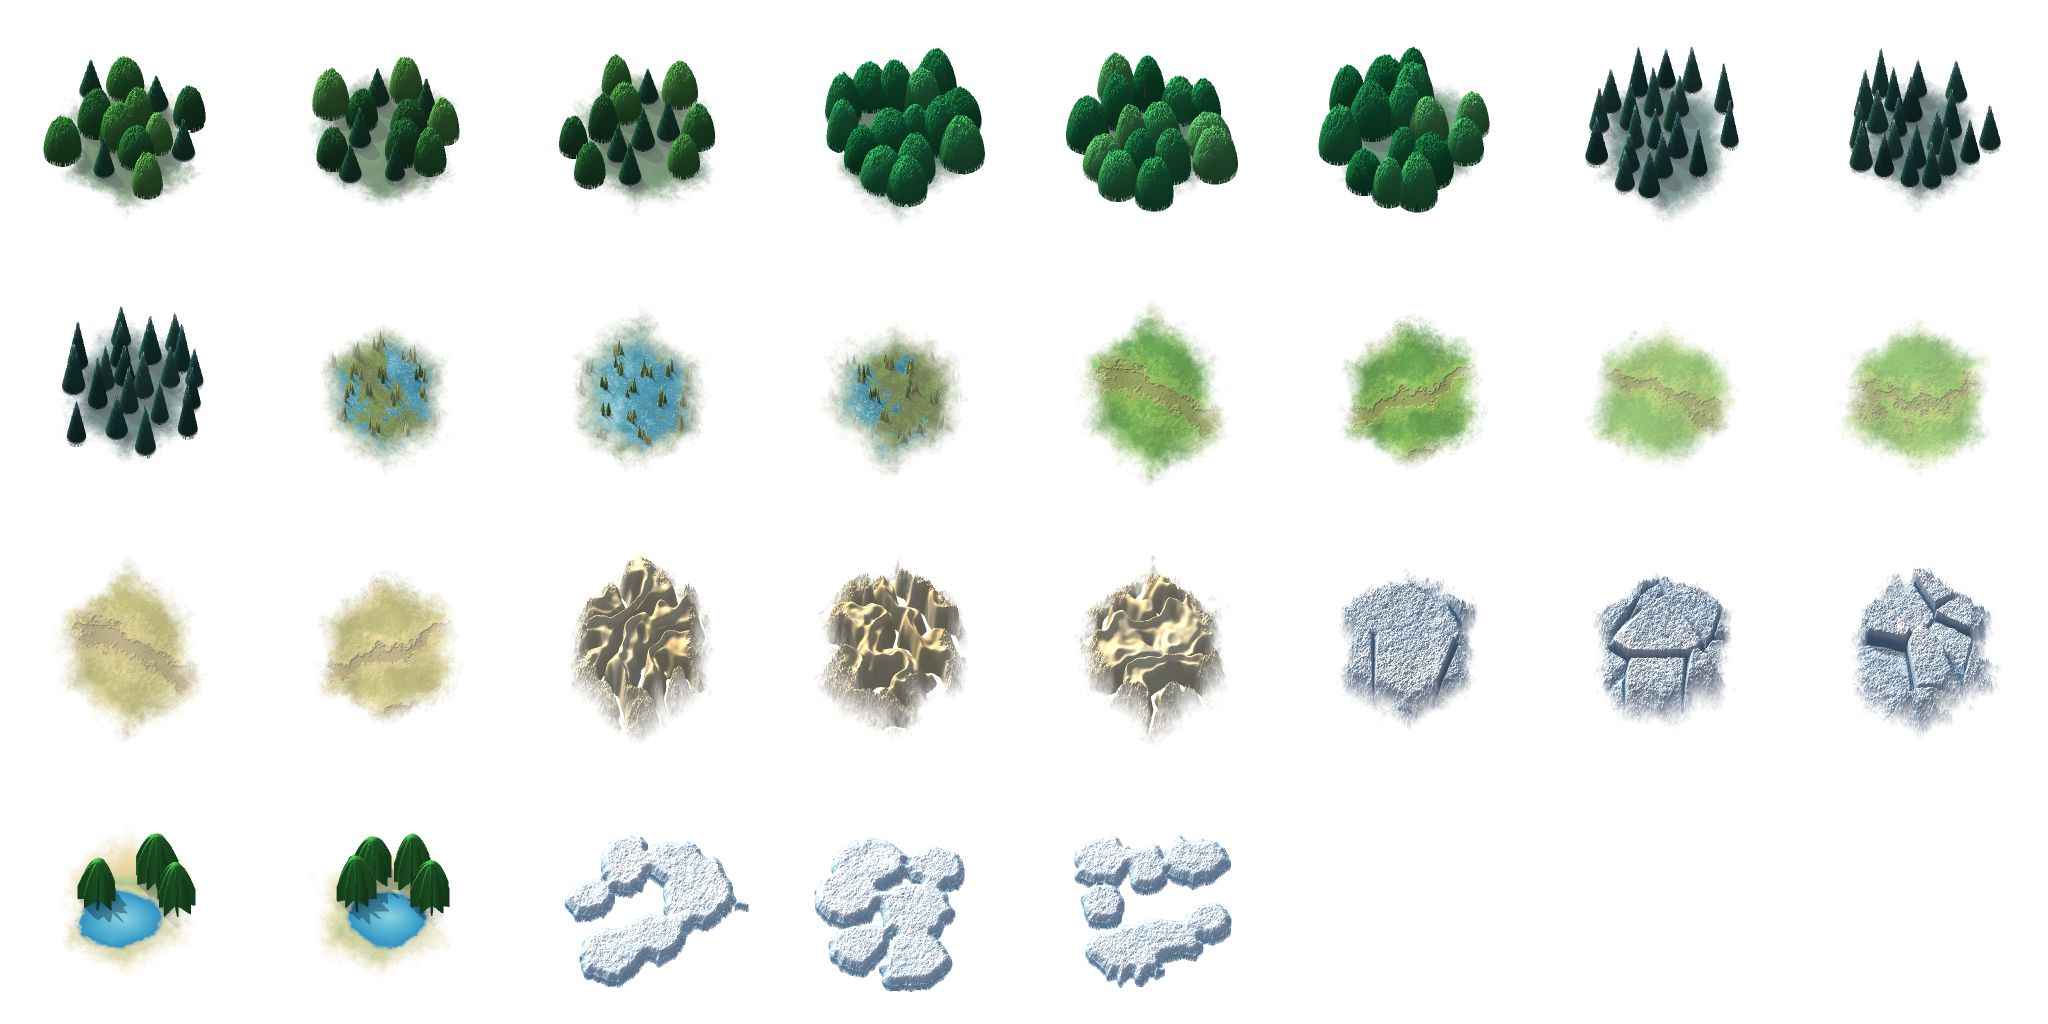
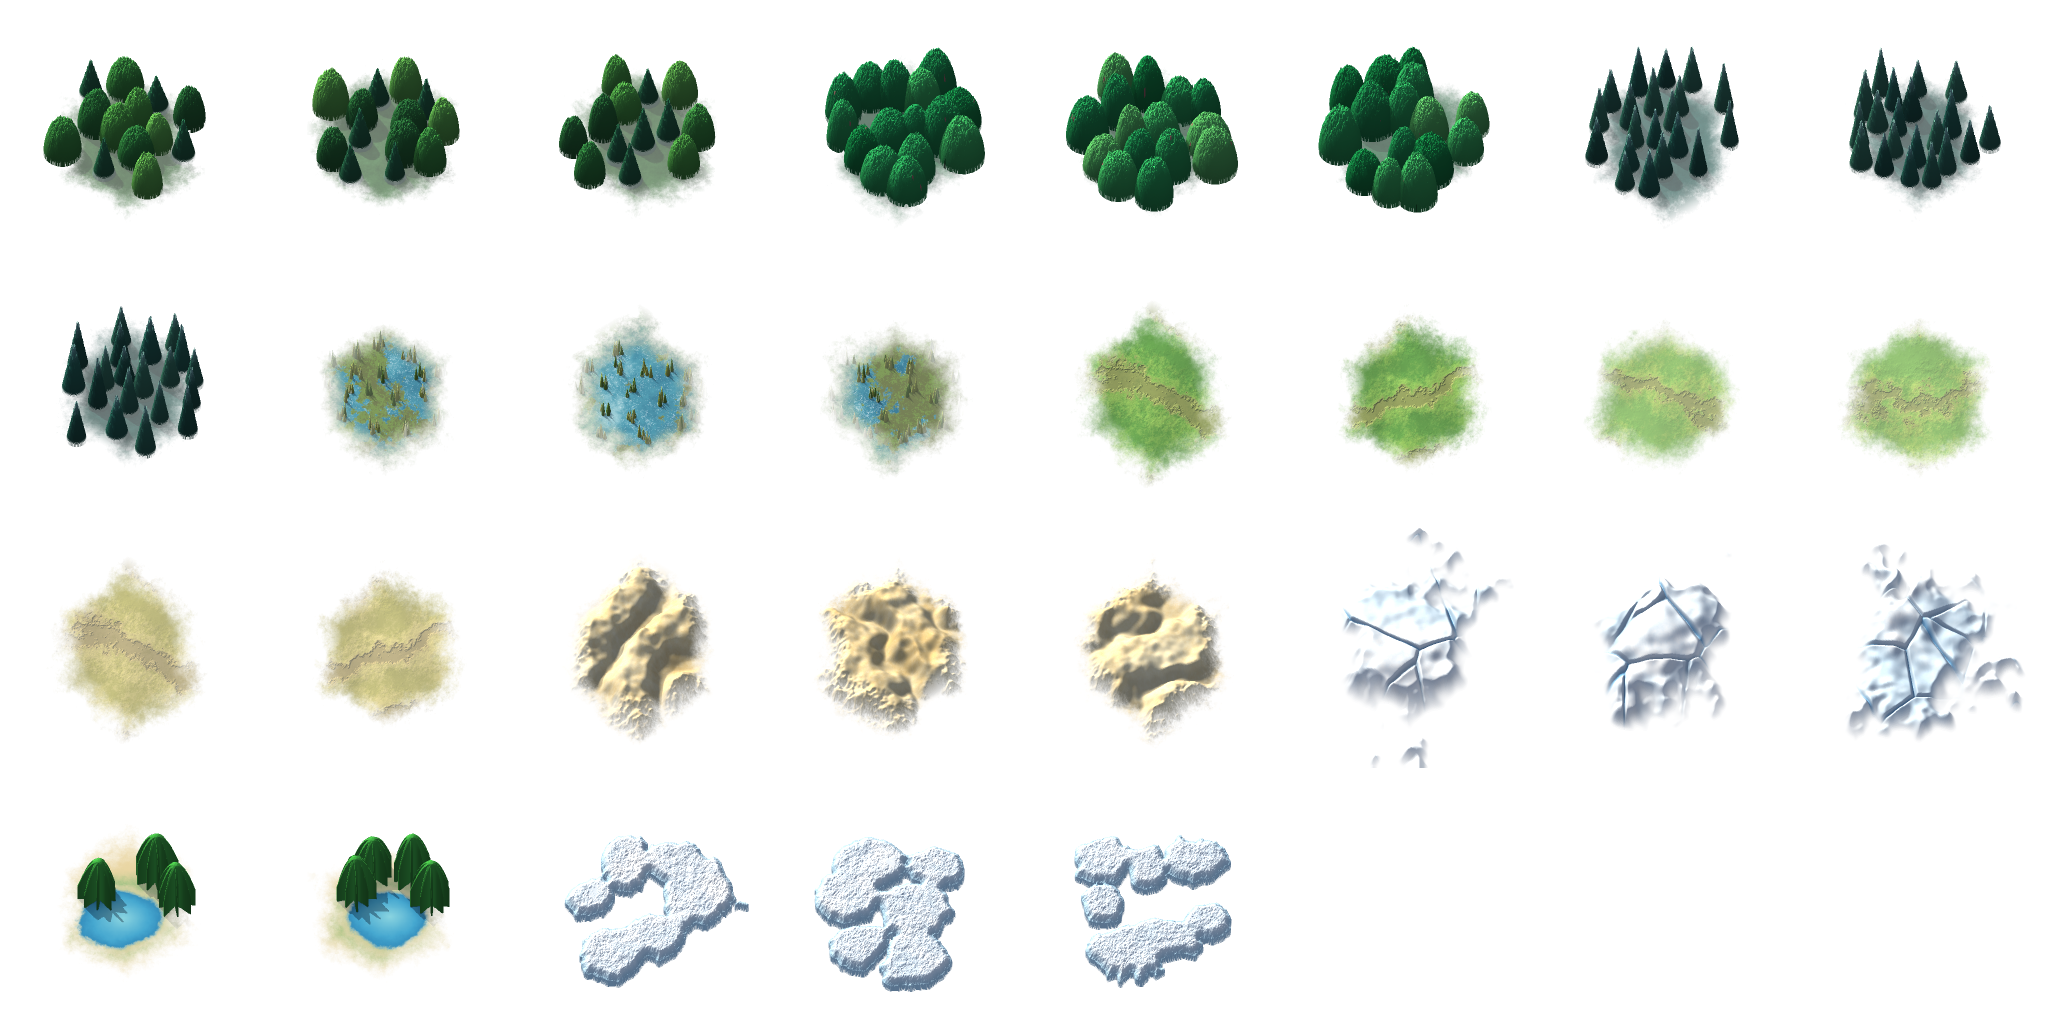
Terrain: natural wonder sprites, rivers over relief, icier glaciers

diff --git a/crates/wayciv/src/render/terrain.rs b/crates/wayciv/src/render/terrain.rs
@@ -307,8 +307,9 @@ const GROUND: usize = 0;
 const FRINGE: usize = 1;
 /// Flat sprites (floodplains, marsh) that rivers run over.
 const DECALS: usize = 2;
-const RIVER: usize = 3;
-const SPRITES: usize = 4;
+const SPRITES: usize = 3;
+/// Rivers run over relief and features so they stay visible through forests.
+const RIVER: usize = 4;
 const LAYERS: usize = 5;
 
 struct Frame {
@@ -416,7 +417,7 @@ impl Frame {
     }
 
     /// A textured quad covering sprite `cell` over `rect`.
-    fn sprite(&mut self, layer: usize, cell: usize, rect: Rect) {
+    fn sprite(&mut self, layer: usize, cell: usize, rect: Rect, flip: bool) {
         let (cx, cy) = ((cell % self.scols) as f32, (cell / self.scols) as f32);
         let (u0, u1) = (
             cx * CELL as f32 / self.sw,
@@ -426,6 +427,7 @@ impl Frame {
             cy * CELL as f32 / self.sh,
             (cy + 1.0) * CELL as f32 / self.sh,
         );
+        let (u0, u1) = if flip { (u1, u0) } else { (u0, u1) };
         let m = self.bufs[layer].mesh(4);
         m.add_rect_with_uv(
             rect,
@@ -575,8 +577,8 @@ fn begin_frame(
             Buf::new(gtex),
             Buf::new(gtex),
             Buf::new(stex),
-            Buf::new(gtex),
             Buf::new(stex),
+            Buf::new(gtex),
         ],
         gw: ground.w as f32,
         gh: ground.h as f32,
@@ -767,10 +769,10 @@ fn tile(
     if has.relief && wonder.is_none() && biome <= 4 {
         if info.mountain {
             let rect = Frame::sprite_rect(c, z, MTN_OFF, MTN_SCALE, 0.0);
-            f.sprite(SPRITES, 15 + bidx * 3 + variant, rect);
+            f.sprite(SPRITES, 15 + bidx * 3 + variant, rect, false);
         } else if info.hills {
             let rect = Frame::sprite_rect(c, z, HILL_OFF, 1.0, 0.0);
-            f.sprite(SPRITES, bidx * 3 + variant, rect);
+            f.sprite(SPRITES, bidx * 3 + variant, rect, false);
         }
     }
     if let Some(feat) = feat {
@@ -787,12 +789,23 @@ fn tile(
             } else {
                 SPRITES
             };
-            f.sprite(layer, SPRITE_FEATURES + first + (h >> 4) as usize % count, rect);
+            let flip = (h >> 20) & 1 == 1
+                && matches!(
+                    feat,
+                    Feat::Marsh
+                        | Feat::FloodDesert
+                        | Feat::FloodGrass
+                        | Feat::FloodPlains
+                        | Feat::Dunes
+                        | Feat::Glacier
+                        | Feat::Ice
+                );
+            f.sprite(layer, SPRITE_FEATURES + first + (h >> 4) as usize % count, rect, flip);
         }
         if let Feat::Wonder(i) = feat {
             if has.wonders {
                 let rect = Frame::sprite_rect(c, z, WONDER_OFF, 1.0, 0.0);
-                f.sprite(SPRITES, SPRITE_WONDERS + i, rect);
+                f.sprite(SPRITES, SPRITE_WONDERS + i, rect, false);
             } else {
                 // No wonder art: a golden marker over the flat tile.
                 let mut shapes = Vec::new();
@@ -899,7 +912,7 @@ fn river(f: &mut Frame, racc: &RiverAcc, _pts: &[Pos2], t: &TileCtx, _h: u32) {
     let (game, z, c, pos) = (t.game, t.z, t.c, t.pos);
     let tile = t.tile();
     let grid = game.map.grid;
-    let half_of = |acc: u16| (z * (0.035 + 0.02 * (acc as f32).sqrt())).min(z * 0.13);
+    let half_of = |acc: u16| (z * (0.06 + 0.03 * (acc as f32).sqrt())).min(z * 0.2);
     let my = half_of(racc.at(game, pos));
     let rules = &game.rules;
 
@@ -943,7 +956,7 @@ fn river(f: &mut Frame, racc: &RiverAcc, _pts: &[Pos2], t: &TileCtx, _h: u32) {
                 .is_some_and(|n| game.map.is_water(rules, n));
             if incoming.is_empty() {
                 let start = c + (m_out - c) * -0.12;
-                let (p, w) = bez(start, c + (m_out - c) * 0.45, m_out, my * 0.45, my, steps);
+                let (p, w) = bez(start, c + (m_out - c) * 0.45, m_out, my * 0.7, my, steps);
                 curves.push((p, w, 1.0, to_water));
             } else {
                 for (d, acc) in incoming {

diff --git a/tools/terrain/features.py b/tools/terrain/features.py
@@ -9,12 +9,12 @@ from texlib import *
 FEAT_OFF = -0.12     # sprite centre offset (z units) used by the game
 
 
-def hexmask(R, ky, soft=0.15, wob=None):
+def hexmask(R, ky, soft=0.15, wob=None, wob_amp=0.35):
     x = GX
     y = GY * ky
     d = np.maximum.reduce([np.abs(x), np.abs(x * 0.5 + y * 0.866), np.abs(x * 0.5 - y * 0.866)]) / (0.866 * R)
     if wob is not None:
-        d = d * (1 + (wob - 0.5) * 0.35)
+        d = d * (1 + (wob - 0.5) * wob_amp)
     return 1 - smoothstep(1 - soft, 1.0, d)
 
 
@@ -174,37 +174,39 @@ def dunes(variant, seed):
     warp = blurn(grid_noise(seed + 2, 3.0), 10)
     warp2 = blurn(grid_noise(seed + 3, 2.0), 6)
     ang = [0.55, -0.45, 1.0][variant]
-    ph = (GX * np.cos(ang) + GY * np.sin(ang)) * 2 * np.pi * 1.55 + (warp - 0.5) * 16 + (warp2 - 0.5) * 3.0
+    ph = (GX * np.cos(ang) + GY * np.sin(ang)) * 2 * np.pi * 1.25 + (warp - 0.5) * 5.0 + (warp2 - 0.5) * 1.5
     s = np.sin(ph)
-    H = (0.12 * (s + 0.4 * np.sin(2 * ph + 1.0)) + 0.12) * mask
+    H = (0.055 * (s + 0.35 * np.sin(2 * ph + 1.0)) + 0.07) * mask * smoothstep(0.0, 0.6, mask)
+    H = blurn(H, 2.0)
     H *= 0.7 + 0.6 * blurn(grid_noise(seed + 4, 2.4), 5)
     alb = ramp(grid_noise(seed + 5, 2.4), [(0, hexc("e0bd78")), (0.5, hexc("ecd198")), (1, hexc("f6e4b6"))])
     # crests lighter
     crest = smoothstep(0.7, 1.0, s)
     alb = alb * (1 + 0.1 * crest[..., None])
-    lit = shade(H, alb, shadow_len=40, shadow_strength=0.5, ambient=0.5, sun=1.05, hscale=1.5, ao=0.2)
-    alpha = np.maximum(mask * 0.9, 0)
+    lit = shade(H, alb, shadow_len=40, shadow_strength=0.45, ambient=0.52, sun=1.0, hscale=2.2, ao=0.1)
+    alpha = mask * 0.9
     img = render_height(H, lit, alpha, cy_feat(), ky=ky, kh=1.0)
     return finish(img)
 
 
 def glacier(variant, seed):
     ky = 0.9
-    mask = hexmask(0.82, ky, 0.3, grid_noise(seed + 1, 2.6))
-    ids, d1, d2 = voronoi(GRID, seed + 2, 16 + 3 * variant)
+    mask = hexmask(0.8, ky, 0.45, blurn(grid_noise(seed + 1, 2.6), 6), wob_amp=1.1)
+    ids, d1, d2 = voronoi(GRID, seed + 2, 12 + 4 * variant)
+    base = blurn(grid_noise(seed + 5, 3.0), 7)
+    # broken ice: most seams are shallow, a few are deep blue crevasses
     r = np.random.default_rng(seed)
-    hts = r.uniform(0.05, 0.19, 64)
-    base = hts[ids]
-    edge = smoothstep(0, 9, d2 - d1)
-    H = base * (0.55 + 0.45 * edge) * mask
-    H += (grid_noise(seed + 3, 2.2) - 0.5) * 0.03 * mask
-    cr = smoothstep(7, 0, d2 - d1)
-    alb = ramp(grid_noise(seed + 4, 2.4), [(0, hexc("cfe6f6")), (0.6, hexc("e8f4fc")), (1, hexc("ffffff"))])
-    alb = mix(alb, hexc("7fb4dc"), cr * 0.75)
-    alb = mix(alb, hexc("a9d0ec"), (1 - hts[ids] / 0.19) * 0.25) * 0.93
-    lit = shade(H, alb, shadow_len=36, shadow_strength=0.5, ambient=0.56, sun=1.0, hscale=1.5, ao=0.3)
-    alpha = mask
-    img = render_height(H, lit, alpha, cy_feat(), ky=ky, kh=1.0)
+    deep = r.uniform(0, 1, 64)[ids] < 0.35
+    seam = smoothstep(7, 0, d2 - d1)
+    H = (0.05 + 0.1 * base) * mask
+    H = H - seam * 0.03 * mask
+    H = blurn(H, 1.5)
+    alb = ramp(grid_noise(seed + 4, 2.4), [(0, hexc("e2f0fa")), (0.6, hexc("f4faff")), (1, hexc("ffffff"))])
+    alb = mix(alb, hexc("b4d8f0"), smoothstep(0.55, 0.2, base) * 0.45)
+    alb = mix(alb, hexc("5aa0d4"), seam * deep * 0.8)
+    alb = mix(alb, hexc("9cc8e8"), seam * (~deep) * 0.5)
+    lit = shade(H, alb, shadow_len=36, shadow_strength=0.35, ambient=0.6, sun=0.9, hscale=3.0, ao=0.1)
+    img = render_height(H, np.clip(lit, 0, 1.05), mask, cy_feat(), ky=ky, kh=1.0)
     return finish(img)
 
 

diff --git a/tools/terrain/wonders.py b/tools/terrain/wonders.py
@@ -144,7 +144,8 @@ def crater(seed=102):
     outer = np.clip(1 - d, 0, 1) ** 0.8 * 0.1
     H = rim + outer
     H = np.where(d < 0.44, 0.07, H)
-    H += (grid_noise(seed + 2, 2.6) - 0.5) * 0.02
+    H += (grid_noise(seed + 2, 2.6) - 0.5) * 0.02 * (H > 0.02)
+    H = np.clip(H, 0, None)
     rock = ramp(grid_noise(seed + 3, 2.0), [(0, hexc("7a6c60")), (1, hexc("b8a894"))])
     green = ramp(grid_noise(seed + 4, 2.0), [(0, hexc("3e7a38")), (1, hexc("6a9c48"))])
     alb = mix(rock, green, (1 - smoothstep(0.1, 0.32, H)) * 0.9)
@@ -187,7 +188,7 @@ def dead_sea(seed=103):
 
 def everest(seed=104):
     peaks = [(0.0, 0.0, 0.95, 1.5), (-0.55, 0.2, 0.55, 0.85), (0.52, 0.16, 0.6, 0.95)]
-    H, E = relief.mountain_height(seed, peaks, jag=1.1)
+    H, E = relief.mountain_height(seed, peaks, jag=0.8)
     alb = relief.mountain_albedo("TUNDRA", H, E, seed, snow_override=(0.22, 1.0))
     alpha = smoothstep(0.012, 0.07, H)
     cell = scene(H, alb, alpha, ky=0.62, kh=1.0, ambient=0.58, shadow_len=100, hscale=1.3)
@@ -273,7 +274,7 @@ def pantanal(seed=107):
             h = np.where(dd < 0.02, r.uniform(0.08, 0.16) * (1 - dd / 0.02), 0)
             m = h > H
             H = np.where(m, h, H)
-            alb = np.where(m[..., None], hexc("8cae48") * (0.85 + 0.3 * (h / 0.16)), alb)
+            alb = np.where(m[..., None], hexc("8cae48") * (0.85 + 0.3 * (h / 0.16))[..., None], alb)
     for (x, y) in scatter(seed + 6, 3, 0.55, 0.5, 0.45):
         add_tree(H, alb, x, y, r.uniform(0.15, 0.19), r.uniform(0.28, 0.34), "dome", hexc("2e8c46"), r)
     # birds: pink and white
@@ -550,7 +551,7 @@ def giants(seed=116):
     hexd = np.maximum(ex, ex * 0.5 + ey * 0.866)
     mask = (1 - smoothstep(0.78, 0.9, np.sqrt((GX / 0.78) ** 2 + (GY / 0.55) ** 2)))
     # height profile: highest at the back (north), stepping to sea level
-    front = (GY + 0.55) / 1.1
+    front = np.clip((GY + 0.55) / 1.1, 0, 1)
     prof = np.clip(0.42 * (1 - front) ** 1.1 + (hh - 0.5) * 0.08, 0.0, None)
     steps = np.floor(prof / 0.045) * 0.045
     Hh = steps * mask
